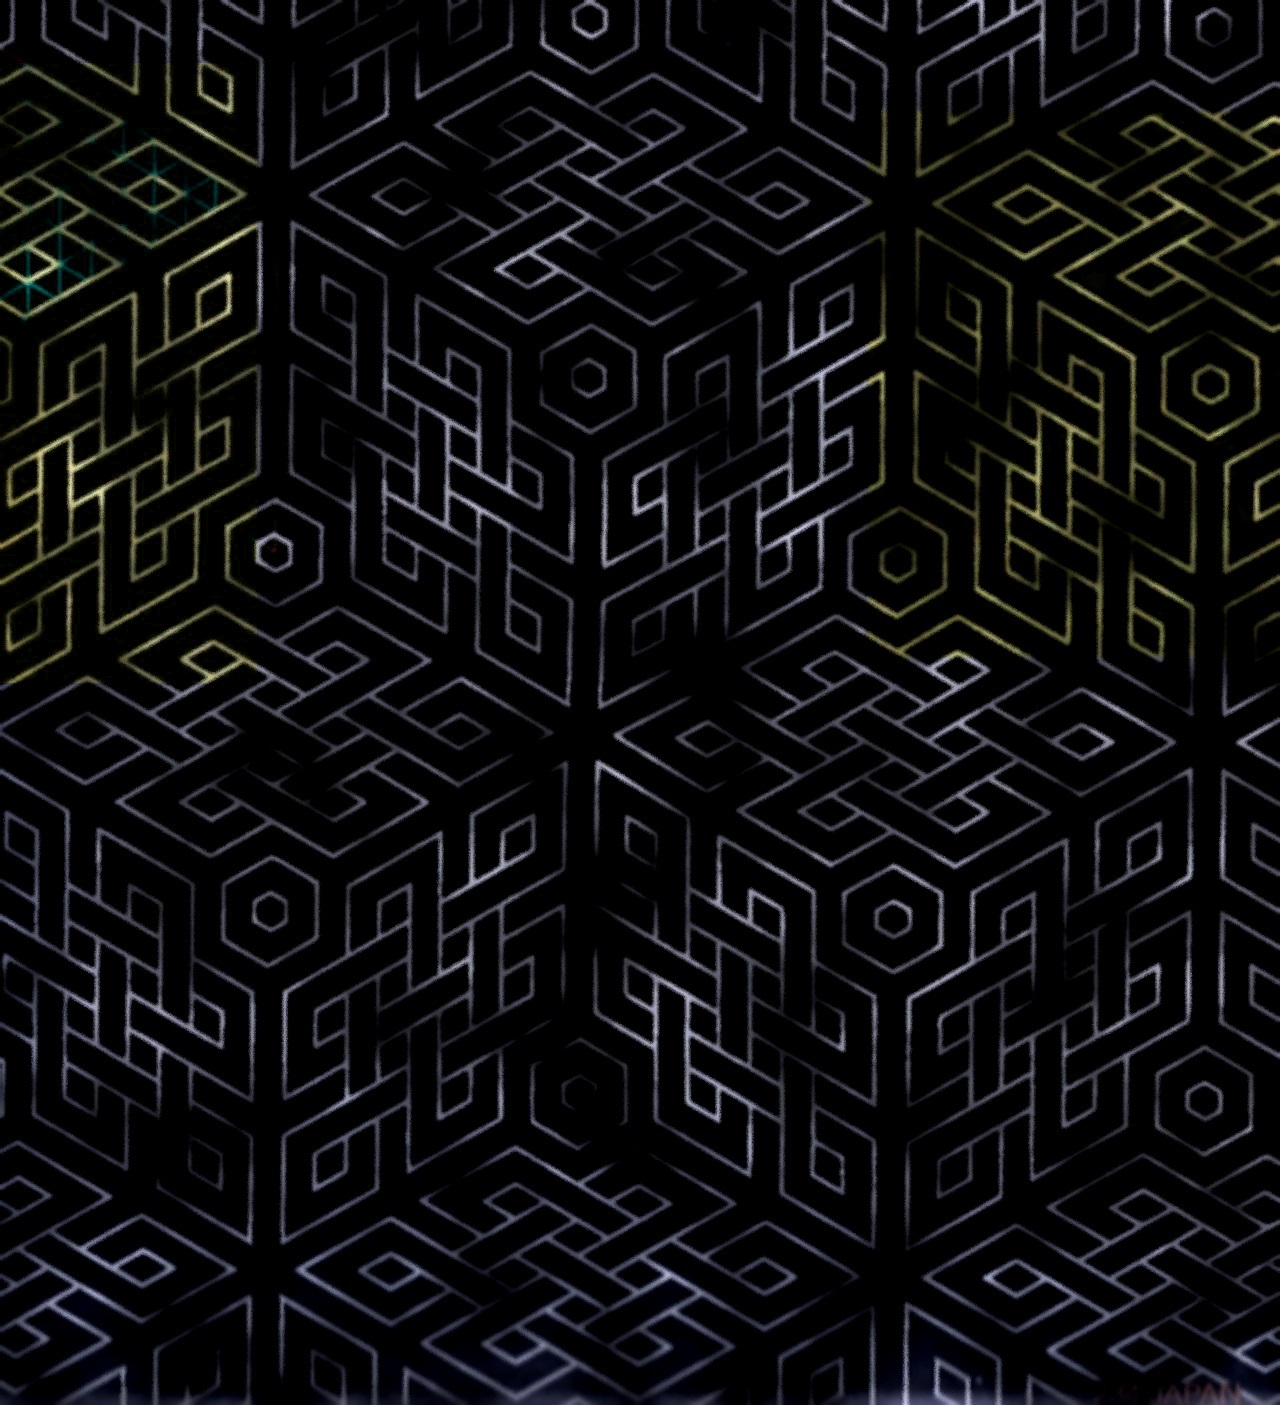
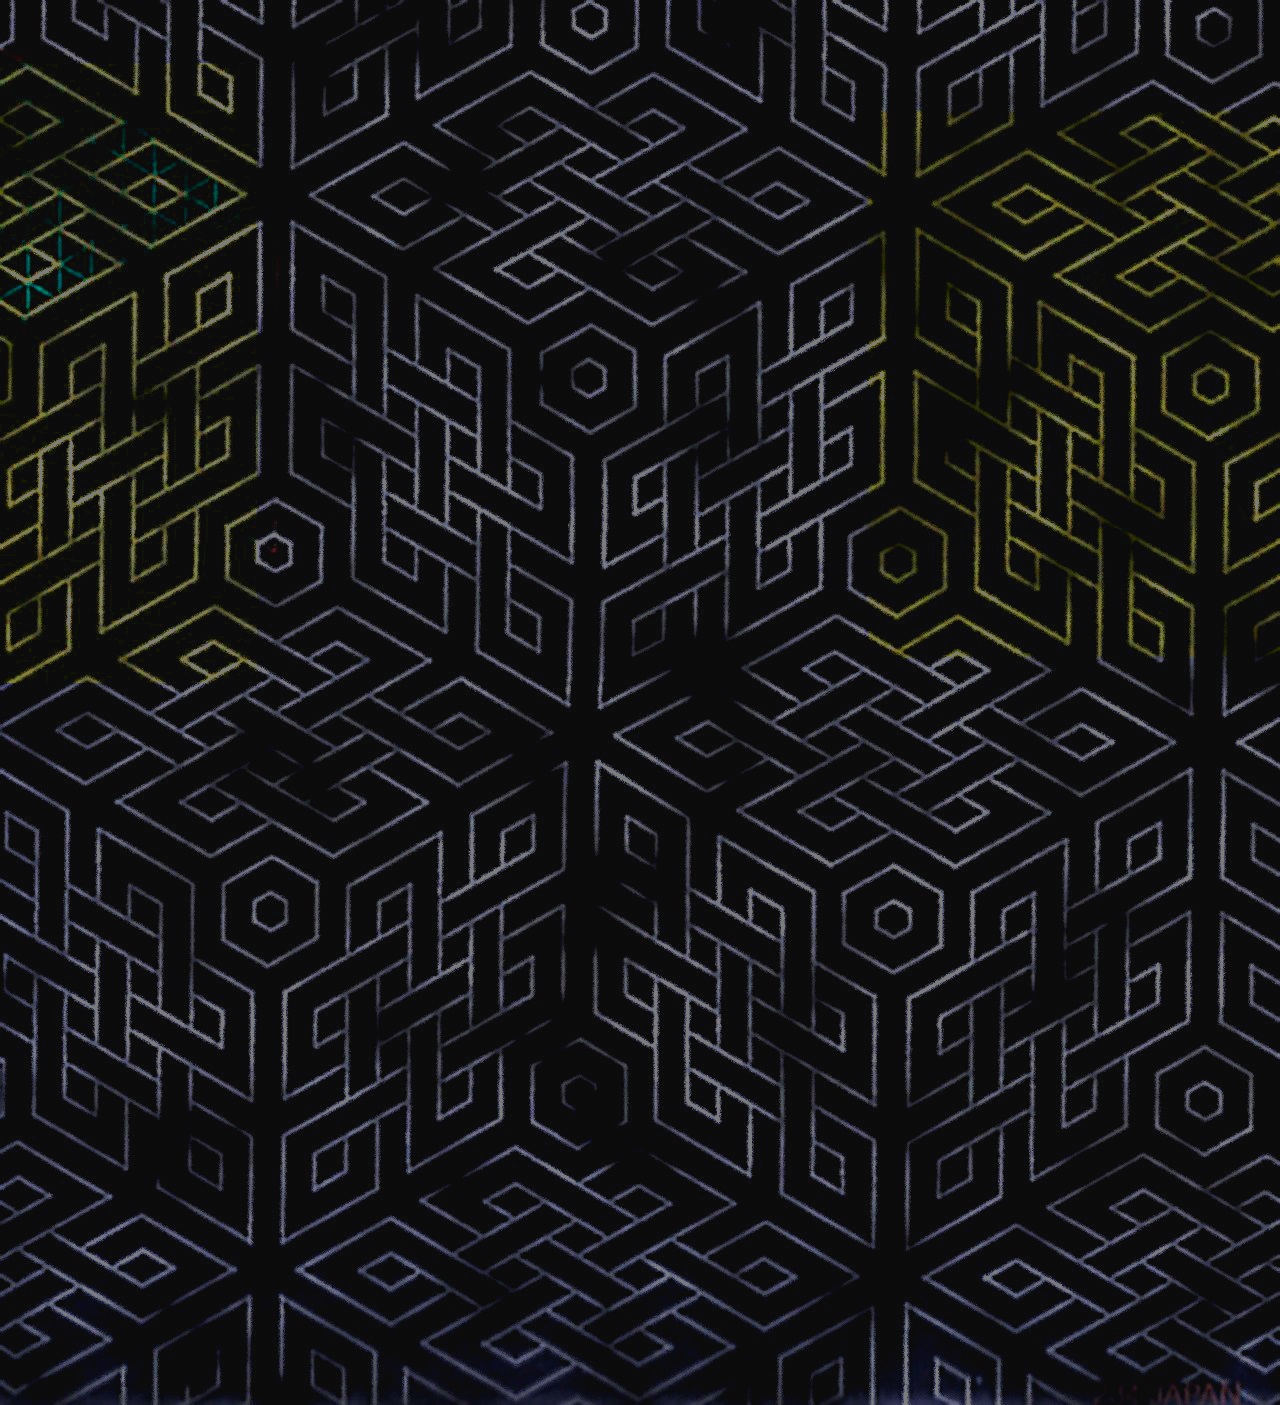
Again...

diff --git a/public/dark.css b/public/dark.css
@@ -99,7 +99,7 @@ ul {
 .chat.page {
   display: none;
   background-color:#1c1c1c;
-  background-image: url(http://i.imgur.com/a5TNAUQ.jpg);
+  background-image: url(http://i.imgur.com/fm6hMAD.jpg);
 }
 
 /* Font */
@@ -276,7 +276,7 @@ ul {
 
 body {
     background-color: #1c1c1c;
-    background-image: url(http://i.imgur.com/a5TNAUQ.jpg);
+    background-image: url(http://i.imgur.com/fm6hMAD.jpg);
 }
 
 #theme {
